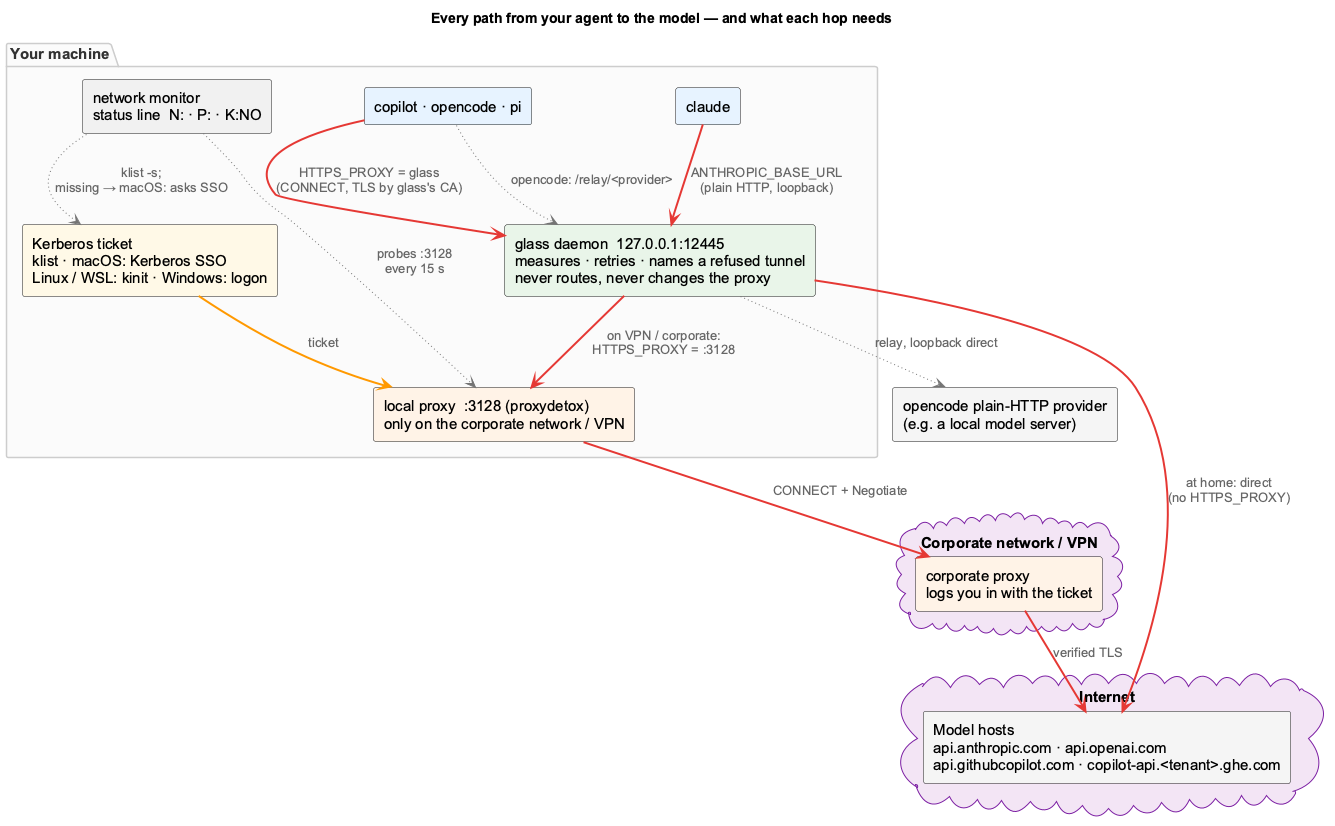
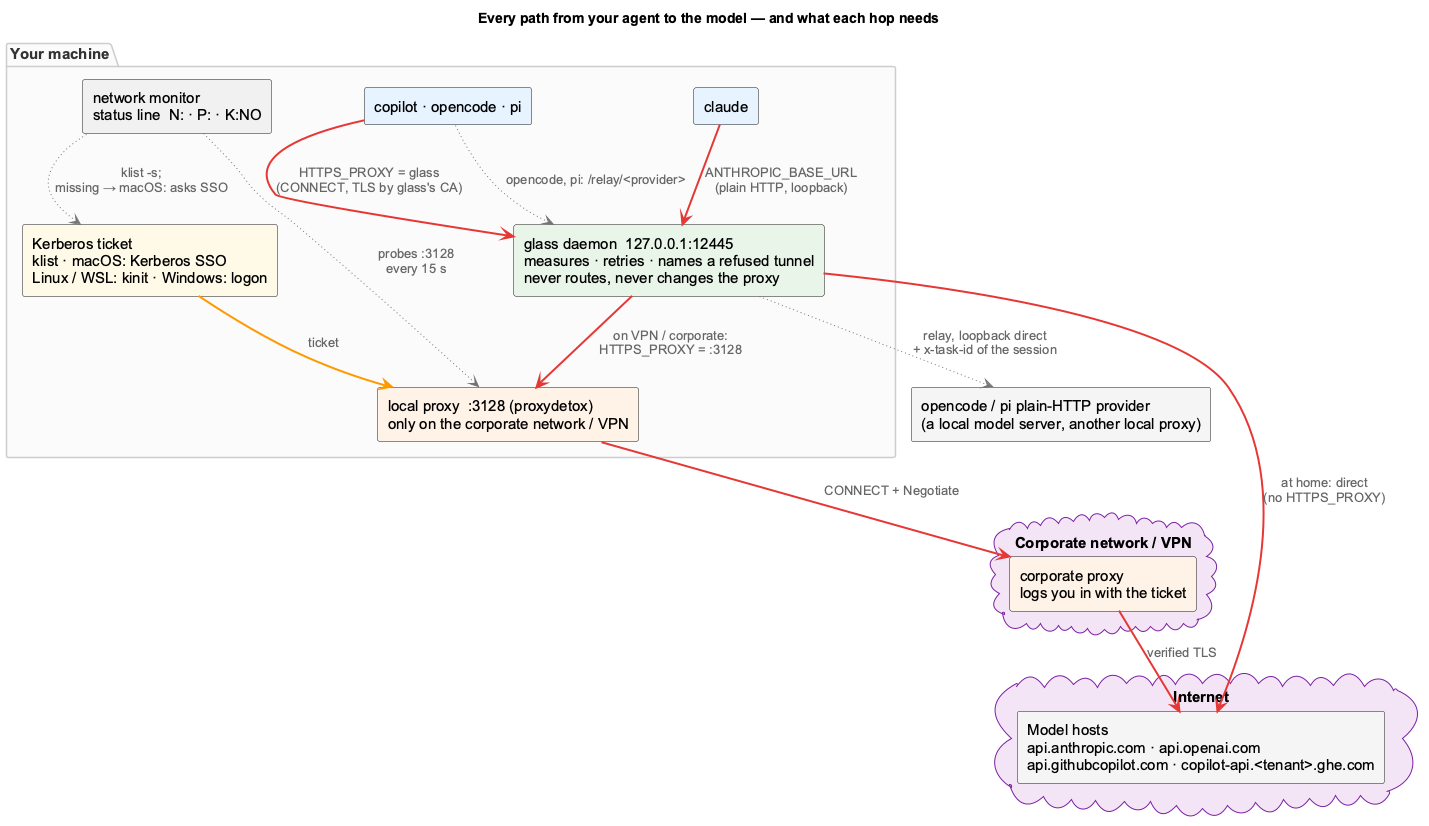
fix(glass): opencode and pi on another local proxy count once
The opencode relay forwarded no session id, so coding's proxy recorded the
call under its own and the combined usage view kept both copies. A relay to
a loopback upstream now carries x-task-id / x-agent / x-project of the glass
session; coding files its copy under glass's id, which the view drops.

pi's plain-HTTP providers were not measured at all. `glass pi` now loads
lib/glass/pi-relay-extension.mjs (`pi -e`), which points each such provider
at the daemon's relay for the run (GLASS_PI_RELAYS); models.json is not
touched and keeps its models, keys and headers.

The two doctor warnings for opencode and pi are gone; docs and the
connectivity diagram describe the relay.

diff --git a/glass/overlay/README.md b/glass/overlay/README.md
@@ -86,9 +86,9 @@ iTerm2 and VS Code); for the other agents run `glass watch` in a split pane
   decrypts only the model hosts (`copilot-api.*.ghe.com`, `api.githubcopilot.com`,
   `api.*.githubcopilot.com`, `api.openai.com`, `api.anthropic.com`), records the usage,
   and forwards the call unchanged. Every other connection is tunnelled untouched.
-- **opencode providers on plain HTTP** (a local model server, another tool's proxy) never
-  go through `HTTPS_PROXY`; for the run, glass points them at the daemon, which forwards
-  each call to the original URL and records it.
+- **opencode and pi providers on plain HTTP** (a local model server, another tool's
+  proxy) never go through `HTTPS_PROXY`; for the run, glass points them at the daemon,
+  which forwards each call to the original URL and records it.
 - All of this is set **for that one run only**, through environment variables: no agent
   configuration, shell profile or system setting is changed.
 - glass's CA is created on first use in `~/.glass/ca` and is **never added to any system
@@ -142,10 +142,10 @@ home directory must be byte-identical to before).
   then send the daemon log to the maintainers. If you already set `NODE_EXTRA_CA_CERTS`,
   glass adds its CA to yours for that run.
 - **Next to another local LLM proxy** (coding, for instance): start glass from a
-  terminal that tool's launcher did not set up. opencode providers on plain HTTP, and
-  its `github-copilot` login, are relayed through glass and measured; if pi defaults to that proxy, add
-  `--model <provider>/<model>` with one of pi's own providers. `glass doctor` warns
-  about each.
+  terminal that tool's launcher did not set up. opencode and pi providers on plain
+  HTTP, and opencode's `github-copilot` login, are relayed through glass and measured,
+  and each call counts once. `glass doctor` warns about a claude base URL on the other
+  proxy.
 - **No rows for copilot:** check `copilot --version` (≥ 1.0.93) and that `which copilot`
   (`where copilot` on Windows) is the npm CLI, not VS Code's bundled one.
 

diff --git a/glass/overlay/docs/troubleshooting.md b/glass/overlay/docs/troubleshooting.md
@@ -16,7 +16,7 @@ Start with `glass doctor`; most problems show up there.
     | Calls fail on VPN although `P:` and `K:` look fine, or work at home only | The daemon uses the proxy settings of the newest `glass <agent>` shell (`glass report net` shows its egress). Start the agent from a shell that has the proxy settings of the network you are on |
     | In WSL: `npm install` fails with `ENOENT … \\wsl.localhost\…`, `glass doctor` says `(win32)` or an old version, or an agent stops with `exec: node: not found` | The shell is running Windows' `npm`, `glass` and agents, which WSL puts on its `PATH`. Install Node inside WSL (e.g. nvm) and open a new shell, so that `which node npm` shows Linux paths; then install glass and the agents inside WSL. To keep Windows programs from shadowing them, set `[interop]` `appendWindowsPath=false` in `/etc/wsl.conf` and run `wsl --shutdown` |
     | In WSL a status-line click opens no browser (glass ≥ 0.1.32 says so on the status line) | glass tries `$BROWSER`, then `wslview` (package `wslu`), then Windows' `cmd.exe`. Set `BROWSER` to your Windows browser, e.g. `export BROWSER="/mnt/c/Program Files/Google/Chrome/Application/chrome.exe"`, or `sudo apt install wslu` |
-    | `glass doctor` warns about another local proxy | Start glass from a plain terminal; for pi add `--model <provider>/<model>` with one of pi's own providers (opencode is relayed and measured) — see *glass next to another local LLM proxy* |
+    | `glass doctor` warns that claude's base URL is another local proxy | Start glass from a terminal that tool's launcher did not set up — see *glass next to another local LLM proxy* |
 
 === "📚 Deep Dive (full)"
 

diff --git a/glass/overlay/docs/_tiers/troubleshooting.deep.md b/glass/overlay/docs/_tiers/troubleshooting.deep.md
@@ -57,19 +57,14 @@ the other tool's launcher did not set up.
 **opencode or pi default to the other proxy.** coding, for example, sets `rapid-proxy/…`
 in `~/.config/opencode/opencode.json` and `rapid-proxy-pi` in `~/.pi/agent/settings.json`,
 both plain HTTP on `localhost:12435`. Plain-HTTP traffic never passes `HTTPS_PROXY`, so
-glass treats the two agents differently:
+for the run glass points every provider with a plain-HTTP base URL at the daemon:
+opencode through `OPENCODE_CONFIG_CONTENT`, pi through a small extension of glass's
+(`pi -e`). Neither config file is changed. The daemon records each call and forwards it
+to the original URL with the glass session's `x-task-id`, `x-agent` and `x-project`.
 
-- **opencode is measured anyway.** For the run, `glass opencode` points every provider
-  with a plain-HTTP base URL at the daemon (through `OPENCODE_CONFIG_CONTENT`, your
-  config file is not changed). The daemon forwards each call to the original URL and
-  records it. If that URL is another tool's proxy, it records the call too: both counts
-  are right, but do not add them up.
-- **pi is not measured** while its default provider is plain HTTP. Pick one of pi's own
-  providers for the run:
-
-```sh
-glass pi --model github-copilot/claude-haiku-5.5
-```
+The other proxy records the call too, under glass's session id. Where that proxy is
+coding's, glass's usage views read its figures as well and drop its copy of any glass
+session, so each call counts once.
 
 On a machine without such a proxy, the agents' defaults are their own providers and
 `glass opencode` / `glass pi` measure them without any option.

diff --git a/glass/overlay/docs/_tiers/architecture.deep.md b/glass/overlay/docs/_tiers/architecture.deep.md
@@ -43,7 +43,15 @@ opencode skips them for its model calls too. glass gives it a session-only confi
 - **Providers on plain HTTP** (a local model server, another tool's proxy): forwarded to
   their own URL.
 
-The relay forwards only to these: any other HTTPS host still goes through interception.
+pi's providers on plain HTTP take the same relay. pi has no session-only config in the
+environment, so `glass pi` loads a small extension of glass's (`pi -e`) that sets each
+such provider's base URL to its relay for the run; models, keys and headers stay those
+of `~/.pi/agent/models.json`.
+
+A call relayed to an address on 127.0.0.1 carries the session's `x-task-id`, `x-agent`
+and `x-project`, so another local proxy on that address files its own record of the call
+under glass's session id. The relay forwards only to these: any other HTTPS host still
+goes through interception.
 
 ## Session lifecycle
 

diff --git a/glass/overlay/docs/architecture.md b/glass/overlay/docs/architecture.md
@@ -21,8 +21,9 @@ glass sits on the path and measures.
 
     The daemon forwards every call unchanged and reads the token usage from the
     response. Only five model hosts are decrypted; all other traffic is tunnelled.
-    opencode's `github-copilot` and plain-HTTP providers reach the daemon by
-    configuration instead (a relay on 127.0.0.1), so their calls are not decrypted.
+    opencode's `github-copilot` and plain-HTTP providers, and pi's plain-HTTP
+    providers, reach the daemon by configuration instead (a relay on 127.0.0.1), so
+    their calls are not decrypted.
 
 === "📚 Deep Dive (full)"
 

diff --git a/glass/overlay/docs/_tiers/offload.deep.md b/glass/overlay/docs/_tiers/offload.deep.md
@@ -26,7 +26,7 @@ paid provider takes one.
 | Agent | How its calls reach glass | Offloaded |
 |---|---|---|
 | opencode | by its configuration (the relay) | yes |
-| pi | intercepted (HTTPS_PROXY) | yes — glass answers in place of the provider |
+| pi | intercepted (HTTPS_PROXY); plain-HTTP providers by the relay | yes — glass answers in place of the provider |
 | Copilot CLI | intercepted (HTTPS_PROXY) | yes — glass answers in place of the provider |
 | Claude Code | `ANTHROPIC_BASE_URL` | no — it speaks the Anthropic wire, which the endpoint does not |
 

diff --git a/glass/overlay/docs/connectivity.md b/glass/overlay/docs/connectivity.md
@@ -62,7 +62,7 @@ you had one set.
 
 **copilot, opencode and pi** use glass as their `HTTPS_PROXY`. glass decrypts
 only the **five model hosts** with its own CA; every other host is a blind
-tunnel. opencode's plain-HTTP providers go through a relay.
+tunnel. opencode's and pi's plain-HTTP providers go through a relay.
 
 `--no-intercept` leaves copilot, opencode and pi unwired: totals come from their
 own files instead.
